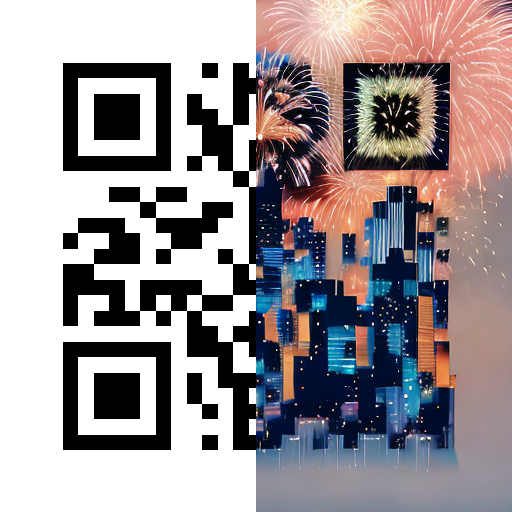
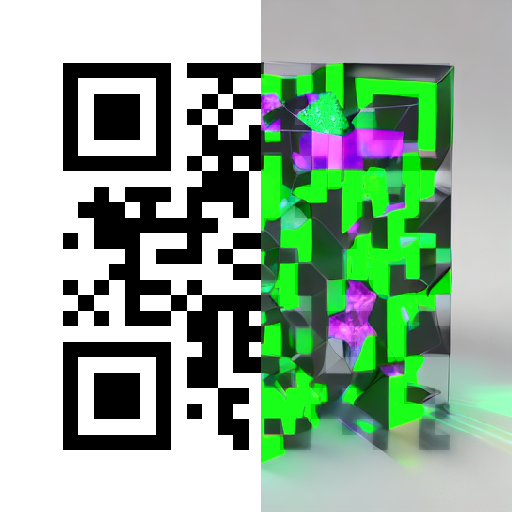
update frontend styles, modalize

diff --git a/src/config.ts b/src/config.ts
@@ -28,10 +28,12 @@ export const LOADING_MESSAGES = [
   `Synthesizing aesthetics...`,
   `Inventing new colors...`,
   `Rewriting the codebase with ChatGPT...`,
+  `Rewriting the codebase with Claude...`,
+  `Rewriting the codebase with Copilot...`,
   `Whispering to the bits and bytes...`,
   `Rolling out with the Transformers...`,
   `Taking a GANder...`,
-  `Rolling the art dice...`,
+  `Praying to RNGsus...`,
   `Torching a pie...`,
   `Consulting the AI Constitution...`,
   `Taming shoggoths...`,
@@ -40,7 +42,7 @@ export const LOADING_MESSAGES = [
   `Violating copyrights and droits moraux...`,
   `Tuning our LLaMAs...`,
   `Pushing directly to main...`,
-  `As an AI model, I...`,
+  `Sorry, as an AI model, I cannot...`,
   `Racking up egress charges...`,
   `Provisioning infrastructure...`,
   `Finding product-market fit...`,
@@ -53,6 +55,9 @@ export const LOADING_MESSAGES = [
   `Composing induction heads...`,
   `Rewriting it in Rust...`,
   `Waiting for AWS to release more GPUs...`,
+  `Waiting for GCP to release more GPUs...`,
+  `Waiting for OCI to release more GPUs...`,
+  `Waiting for Azure to release more GPUs...`,
   `Purchasing more NVIDIA stock...`,
   `Rewriting models in JAX...`,
   `Converting boomercore models from Keras...`,
@@ -108,6 +113,63 @@ export const LOADING_MESSAGES = [
   `Updating DNS...`,
   `Downloading more RAM...`,
   `Downloading more VRAM...`,
+  `Orthogonalizing foundation models...`,
+  `Riding a LLaMA...`,
+  `Comparing Mistral with Sirocco...`,
+  `It's so over...`,
+  `We're so back...`,
+  `Checking for consistent candor...`,
+  `Launching CUDA kernels...`,
+  `Spinlocking...`,
+  `Upgrading to Pydantic 2...`,
+  `Downgrading to Pydantic 1...`,
+  `Cleaning dirty RAGs...`,
+  `Compacting...`,
+  `Flushing the WAL...`,
+  `Running torch.compile...`,
+  `Achieving AGI internally...`,
+  `Capturing regulators...`,
+  `Leaking weights via torrent...`,
+  `Asking Emad for more GPUs...`,
+  `Restarting from checkpoint...`,
+  `Invalidating Redis cache...`,
+  `Downloading Postgres extension...`,
+  `Compiling SQL queries...`,
+  `YOUR AD HERE...`,
+  `Rewriting it in Go...`,
+  `Rewriting it in Zig...`,
+  `Rewriting it in Hare...`,
+  `Rewriting it in Haskell...`,
+  `Going back to C++...`,
+  `Fighting the borrow checker...`,
+  `ERROR: CUDA_HOME is not set, bruh...`,
+  `Definitely not training on books3...`,
+  `Hot-swapping LoRAs...`,
+  `The Golden Gate Bridge is an iconic...`,
+  `Injecting prompts...`,
+  `Ignoring previous instructions...`,
+  `Deploying MLOps...`,
+  `Deploying LLMOps...`,
+  `Deploying AgentOps...`,
+  `Switching from LangChain to llamaindex...`,
+  `Switching from llamaindex to LangChain...`,
+  `Reincorporating as a non-profit...`,
+  `Switching from terraform to pulumi...`,
+  `Switching from pulumi to raw k8s...`,
+  `Switching from raw k8s to terraform...`,
+  `Compiling prompts with DSPy...`,
+  `Running Monte Carlo Tree Search...`,
+  `Waiting on Netlify deployment...`,
+  `Waiting on Vercel deployment...`,
+  `Migrating to SQLite...`,
+  `Migrating to duckdb...`,
+  `Grinding more LeetCode...`,
+  `Asking for help on weird Discords...`,
+  `Asking for help on weird Discords...`,
+  `Boosting LMSys ELO...`,
+  `Delving into fascinating topics...`,
+  `Scaling up vibe checks...`,
+  `Running LGTM@10 benchmark...`,
 ];
 
-export const LOADING_MESSAGE_INTERVAL_MS = 5000;
+export const LOADING_MESSAGE_INTERVAL_MS = 3000;

diff --git a/src/App.tsx b/src/App.tsx
@@ -21,9 +21,9 @@ import { wait } from "@laxels/utils";
 
 function App() {
   const [prompt, setPrompt] = useState(
-    `fireworks, beautiful display above a city, breathtaking spectacle, fiery, shimmering, symphonic, cascading`
+    `neon green cubes, rendered in blender, trending on artstation`
   );
-  const [qrCodeValue, setQRCodeValue] = useState(`tfs.ai/qr-main`);
+  const [qrCodeValue, setQRCodeValue] = useState(`modal.com`);
 
   const [loading, setLoading] = useState(false);
   const [jobID, setJobID] = useState<string | null>(null);
@@ -180,6 +180,7 @@ function App() {
           )}
         </ResultsContainer>
       )}
+      <Footer />
     </Container>
   );
 }
@@ -187,7 +188,7 @@ function App() {
 export default App;
 
 const Container = createDivContainer(
-  "min-h-full flex flex-col items-center justify-center p-4 bg-blue"
+  "min-h-full flex flex-col items-center justify-center p-4 bg-black"
 );
 
 const UserInput: FC<FormProps> = ({ children }) => (
@@ -222,7 +223,7 @@ const Textarea: FC<TextareaProps> = ({ ...inputProps }) => {
 
 const Button: FC<ButtonProps> = ({ ...buttonProps }) => (
   <button
-    className="w-full mt-4 disabled:bg-gray-300 bg-orange hover:bg-orange-light text-white rounded-xl py-2.5 px-8 transition-colors font-bold"
+    className="w-full mt-4 disabled:bg-gray-300 bg-green hover:bg-green-light text-black rounded-xl py-2.5 px-8 transition-colors font-semibold"
     {...buttonProps}
   />
 );
@@ -230,3 +231,14 @@ const Button: FC<ButtonProps> = ({ ...buttonProps }) => (
 const ResultsContainer = createDivContainer(`mt-16 w-full max-w-[512px]`);
 
 const DownloadButtons = createDivContainer(``);
+
+const Footer: FC = () => {
+  return (
+    <footer
+      className="w-full bg-green border-t-4 border-black/75 hover:bg-green-light text-black text-xl py-2.5 px-8 fixed bottom-0  cursor-pointer select-none z-50"
+      onClick={() => (window.location.href = "https://www.modal.com")}
+    >
+      Powered by Modal
+    </footer>
+  );
+};

diff --git a/index.html b/index.html
@@ -2,7 +2,7 @@
 <html lang="en">
   <head>
     <meta charset="UTF-8" />
-    <link rel="icon" type="image/svg+xml" href="/pancakes.svg" />
+    <link rel="icon" type="image/svg+xml" href="/modal.svg" />
     <meta name="viewport" content="width=device-width, initial-scale=1.0" />
     <meta property="og:title" content="qart codes" />
     <meta property="og:site_name" content="qart codes" />

diff --git a/tailwind.config.js b/tailwind.config.js
@@ -4,9 +4,9 @@ export default {
   theme: {
     extend: {
       colors: {
-        blue: `rgb(64, 81, 181)`,
-        orange: `rgb(246, 140, 8)`,
-        "orange-light": `rgb(255, 145, 0)`,
+        black: `#18181B`,
+        green: `#84CC16`,
+        "green-light": `#7FEE64`,
       },
     },
   },
